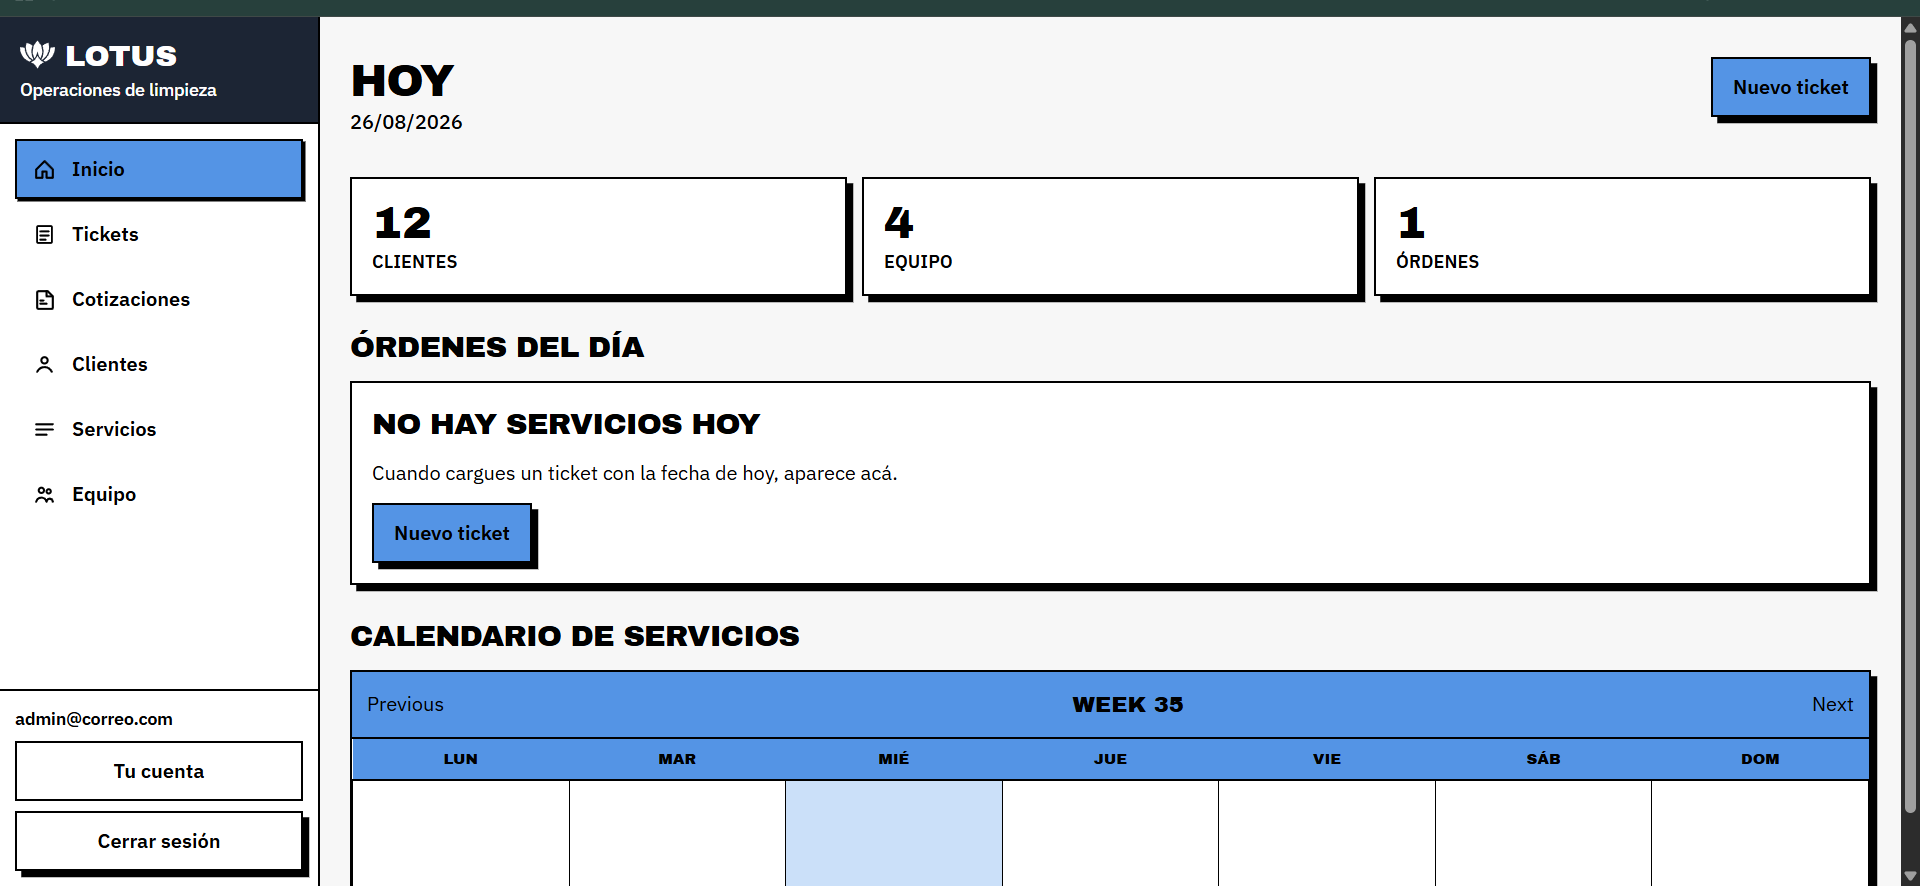
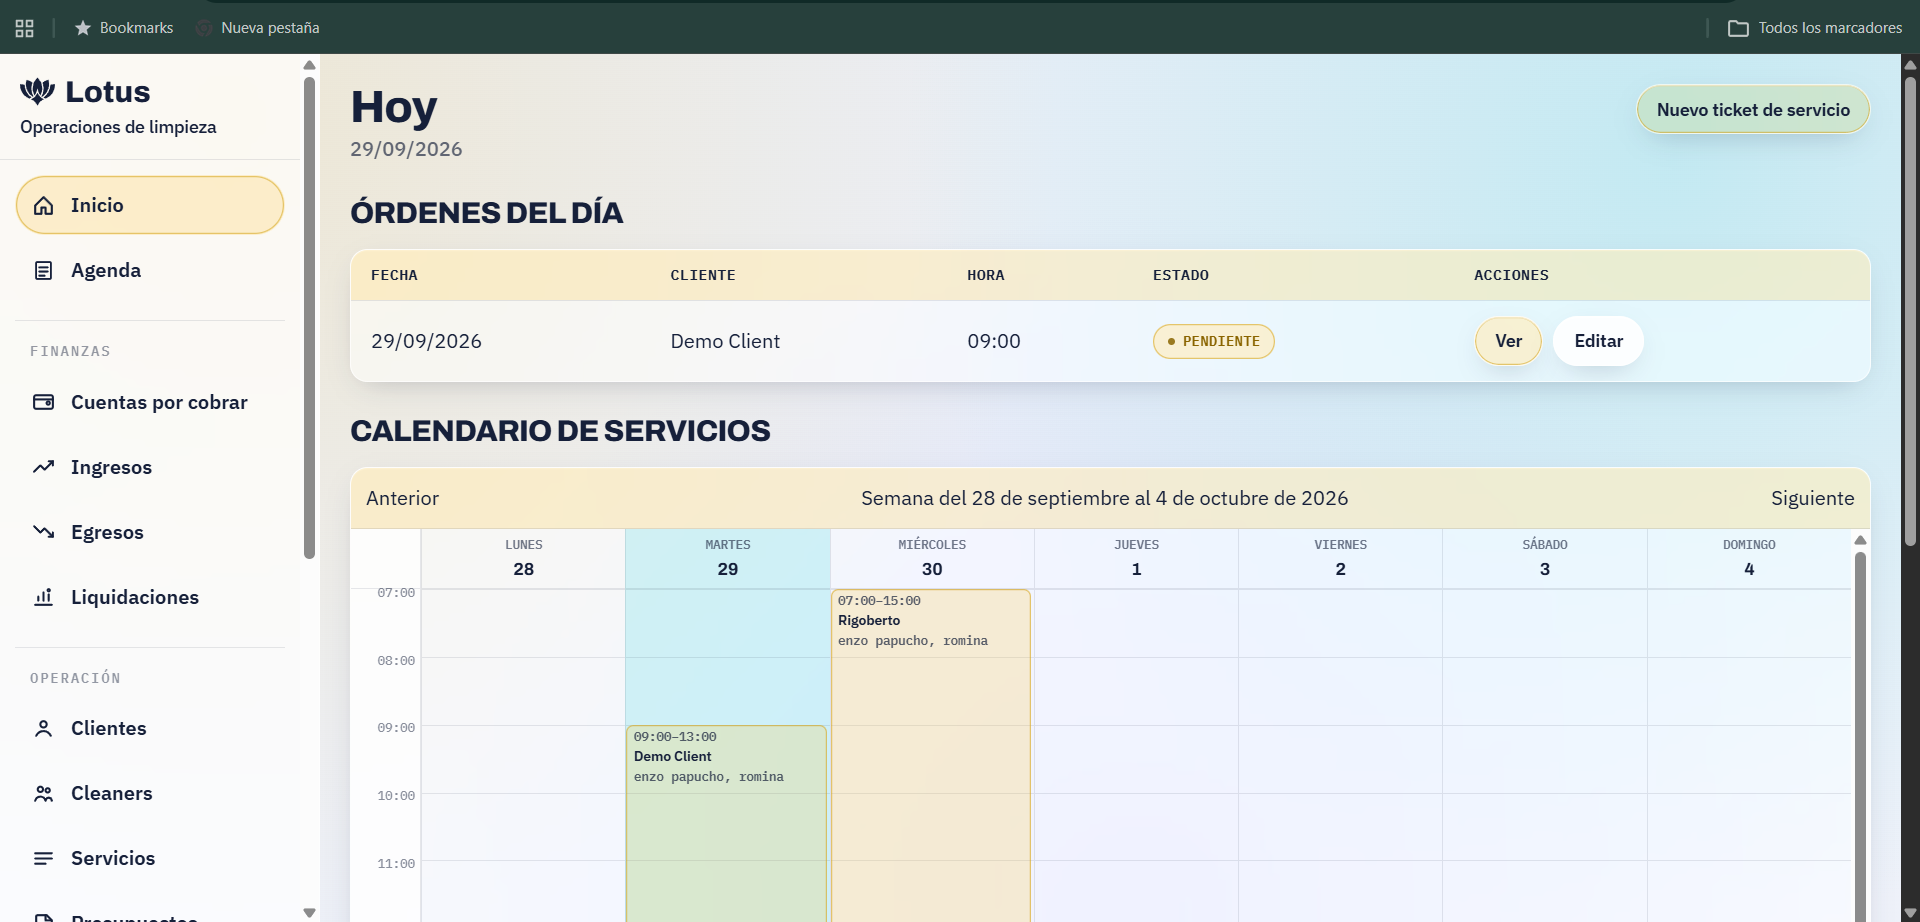
agrega nuevos componentes

diff --git a/src/data/projects.js b/src/data/projects.js
@@ -1,6 +1,6 @@
 export const projects = [
    {
-    title: 'Lotus clean (Mi proyecto mas grande hasta el momento :) )',
+    title: 'Lotus clean - Sistema de gestión para empresas de limpieza',
     description: 'Sistema de gestión para empresas de limpieza, desarrollado en Ruby on Rails. Centraliza clientes, direcciones, cuadrillas y servicios en un flujo de trabajo único: desde el alta de un ticket hasta su seguimiento en un calendario semanal interactivo. Incluye envío automático de confirmaciones por WhatsApp, mapas integrados para geolocalizar direcciones y una interfaz moderna construida con Tailwind CSS y Stimulus JS. Pensado para simplificar la operación diaria de negocios de servicios con múltiples clientes y equipos en movimiento..',
     image: '/assets/lotus.png',
     url: 'https://app.lotuscompany.ar/',
@@ -9,42 +9,42 @@ export const projects = [
   {
     title: 'TuReceta.app',
     description: '¿Necesitas calcular cuánto cuesta elaborar una receta para tu emprendimiento? TuRecetaApp te ayuda a obtener el costo total y el precio por unidad sin tener que hacer los cálculos manualmente. Solo debes ingresar los ingredientes, cantidades y precios paso a paso, y la aplicación se encarga del resto.',
-    image: '/assets/tuReceta.png',
+    image: '/assets/tureceta.png',
     url: 'https://turecetaapp.netlify.app/',
     repo:'https://github.com/Xgsusbrx',
   },
   {
     title: 'GifExpertApp',
     description: 'Aplicación web para buscar y explorar GIFs mediante la integración con una API externa. Permite realizar búsquedas y navegar por categorías dinámicas, mientras conserva los resultados consultados anteriormente para facilitar su acceso y mejorar la experiencia de usuario.',
-    image: '/assets/gifExpert.png',
+    image: '/assets/gif.png',
     url: 'https://gif-expert-tarea.netlify.app/',
     repo:'https://github.com/Xgsusbrx'
   },
   {
     title: 'Calculadora de Vuelto',
     description: 'Una calculadora pensada para los comercios venezolanos que necesitan calcular el vuelto combinando dólares y bolívares. La aplicación consulta automáticamente la tasa de cambio mediante una API y, a partir del precio y el billete recibido, indica rápidamente cuánto devolver',
-    image: '/assets/imagencalculadora.png',
+    image: '/assets/calculadora.png',
     url: 'https://calculadoradevuelto.netlify.app/',
     repo: 'https://github.com/Xgsusbrx'
   },
   {
     title:'Total Ventas del dia',
     description:'Aplicación web para la gestión de las ventas diarias de un negocio. Permite registrar y consolidar los ingresos del día, realizando automáticamente los cálculos y conversiones según la cotización actual del dólar, obtenida mediante una API externa. El objetivo es simplificar el control de las ventas y evitar cálculos manuales, ofreciendo resultados actualizados y precisos en un solo lugar.',
-    image:'/assets/imagen ventas del dia .png',
+    image:'/assets/ventas.png',
     url:'https://totalventasdeldia.netlify.app/' ,
     repo: 'https://github.com/Xgsusbrx/Ventas-del-dia-'
   },
-  {
-    title:'Invitacion de Boda',
-    description:'Página web de invitación digital, diseñada con un enfoque responsive e interactivo. Incluye un contador regresivo hasta la fecha del evento, acceso directo a la ubicación mediante Google Maps y un formulario para confirmar asistencia. El proyecto busca centralizar toda la información del evento en una experiencia simple, accesible y adaptada a dispositivos móviles.',
-    image:'/assets/invitacionde boda .png',
-    url:'https://samuelydaiana.netlify.app/',
-    repo:'https://github.com/Xgsusbrx/invitacion-Boda-'
-  },
+  // {
+  //   title:'Invitacion de Boda',
+  //   description:'Página web de invitación digital, diseñada con un enfoque responsive e interactivo. Incluye un contador regresivo hasta la fecha del evento, acceso directo a la ubicación mediante Google Maps y un formulario para confirmar asistencia. El proyecto busca centralizar toda la información del evento en una experiencia simple, accesible y adaptada a dispositivos móviles.',
+  //   image:'/assets/invitacionde boda .png',
+  //   url:'https://samuelydaiana.netlify.app/',
+  //   repo:'https://github.com/Xgsusbrx/invitacion-Boda-'
+  // },
   {
     title:'Invitacion de aniversario',
     description:'Tambien es una página web de invitación digital, diseñada con un enfoque responsive e interactivo con diseño un poco diferente. acceso directo a la ubicación mediante Google Maps y un formulario para confirmar asistencia. Invitacion adaptada a dispositivos móviles.',
-    image:'/assets/invitacionaniversario.png',
+    image:'/assets/invitacion.png',
     url:'https://yoliyariel.netlify.app/',
     repo:'https://github.com/Xgsusbrx/invitacion-Aniversario'
   }

diff --git a/src/components/Contact.jsx b/src/components/Contact.jsx
@@ -1,37 +1,58 @@
-
 import { FormContact } from "./FormContact";
+
 export const Contact = () => {
-
-
+  const phone = "5491172373115"; 
+  const message = encodeURIComponent(
+    "Hola Brian, vi tu portafolio y me gustaría hablar sobre un proyecto."
+  );
 
   return (
     <section id="contact" className="py-16 px-4 text-center">
       <h2 className="text-3xl font-bold mb-4">Contacto</h2>
-      <p className="mb-4">¿Quieres ver más de mis proyectos? </p>
+
+      <p className="mb-6">¿Quieres trabajar conmigo?</p>
+
+      <a
+        href={`https://wa.me/${phone}?text=${message}`}
+        target="_blank"
+        rel="noopener noreferrer"
+        aria-label="Escríbeme por WhatsApp"
+        className="inline-flex items-center gap-2 bg-[#25D366] text-white font-semibold px-6 py-3 rounded-full shadow hover:bg-[#1ebe5b] transition-colors"
+      >
+        <svg
+          viewBox="0 0 24 24"
+          fill="currentColor"
+          className="w-5 h-5"
+          aria-hidden="true"
+        >
+          <path d="M20.52 3.48A11.86 11.86 0 0 0 12.04 0C5.5 0 .2 5.3.2 11.84c0 2.09.55 4.13 1.59 5.93L0 24l6.4-1.68a11.8 11.8 0 0 0 5.64 1.44h.01c6.54 0 11.84-5.3 11.84-11.84 0-3.16-1.23-6.13-3.37-8.44ZM12.05 21.7h-.01a9.8 9.8 0 0 1-5-1.37l-.36-.21-3.8 1 1.01-3.7-.23-.38a9.8 9.8 0 0 1-1.5-5.2c0-5.42 4.41-9.83 9.84-9.83 2.63 0 5.09 1.02 6.95 2.88a9.77 9.77 0 0 1 2.88 6.95c0 5.42-4.41 9.86-9.78 9.86Zm5.39-7.36c-.3-.15-1.75-.86-2.02-.96-.27-.1-.47-.15-.67.15-.2.3-.77.96-.94 1.16-.17.2-.35.22-.65.07-.3-.15-1.25-.46-2.38-1.47-.88-.79-1.47-1.76-1.64-2.06-.17-.3-.02-.46.13-.61.14-.13.3-.35.45-.52.15-.17.2-.3.3-.5.1-.2.05-.37-.02-.52-.08-.15-.67-1.62-.92-2.22-.24-.58-.49-.5-.67-.51h-.57c-.2 0-.52.07-.8.37-.27.3-1.04 1.02-1.04 2.48s1.07 2.88 1.22 3.08c.15.2 2.1 3.2 5.08 4.49.71.31 1.26.49 1.69.63.71.23 1.36.2 1.87.12.57-.09 1.75-.72 2-1.41.25-.69.25-1.29.17-1.41-.07-.12-.27-.2-.57-.35Z" />
+        </svg>
+        Escríbeme por WhatsApp
+      </a>
+
+      <FormContact />
+
+      <p className="mb-4 mt-4">¿Quieres ver más de mis proyectos?</p>
       <div className="flex justify-center gap-6">
         <a
           href="https://github.com/Xgsusbrx"
           target="_blank"
-          className="text-[#ff5253] hover:text-black mb-4"
+          rel="noopener noreferrer"
+          className="text-[#ff5253] hover:text-black"
         >
           GitHub
         </a>
-      </div>
-      <a>¿Quieres trabajar conmigo?</a>
-      <div className="flex justify-center gap-6 mt-6">
-       
-      </div>
-
-      <FormContact/>
-      <div className="flex justify-center gap-6 mt-6"> <a
+        <a
           href="https://www.linkedin.com/in/brianluzardo/"
           target="_blank"
+          rel="noopener noreferrer"
           className="text-[#ff5253] hover:text-black"
         >
           LinkedIn
-        </a></div>
-
+        </a>
+      </div>
     </section>
   );
 };
+
 export default Contact;

diff --git a/src/components/Stack.jsx b/src/components/Stack.jsx
@@ -1,0 +1,39 @@
+const categories = [
+  { title: "Frontend", emoji: "🎨", items: ["React", "JavaScript", "HTML", "CSS"] },
+  { title: "Backend", emoji: "⚙", items: ["Python", "Django", "Ruby on Rails"] },
+  { title: "Herramientas", emoji: "🛠", items: ["Git", "GitHub", "Docker", "PostgreSQL"] },
+];
+
+export const Stack = () => {
+  return (
+    <section id="stack" className="py-20 px-4 max-w-5xl mx-auto text-center">
+      <h2 className="text-4xl font-bold mb-4">Mi stack de trabajo</h2>
+      <p className="text-lg text-gray-400 mb-12">
+        Las tecnologías con las que construyo mis proyectos
+      </p>
+
+      <div className="grid gap-6 md:grid-cols-3">
+        {categories.map(({ title, emoji, items }) => (
+          <div
+            key={title}
+            className="rounded-2xl border border-gray-700 bg-gray-800/50 p-6 transition hover:-translate-y-1 hover:border-gray-500"
+          >
+            <h3 className="text-2xl font-semibold mb-4">
+              <span aria-hidden="true">{emoji}</span> {title}
+            </h3>
+            <ul className="flex flex-wrap justify-center gap-2">
+              {items.map((item) => (
+                <li
+                  key={item}
+                  className="rounded-full bg-gray-700 px-3 py-1 text-sm text-gray-200"
+                >
+                  {item}
+                </li>
+              ))}
+            </ul>
+          </div>
+        ))}
+      </div>
+    </section>
+  );
+};

diff --git a/src/components/Services.jsx b/src/components/Services.jsx
@@ -1,0 +1,41 @@
+const services = [
+  {
+    title: "🌐 Desarrollo web",
+    description:
+      "Landing pages, sitios web y aplicaciones adaptadas a las necesidades del proyecto.",
+  },
+  {
+    title: "🛠 Mantenimiento y correcciones",
+    description:
+      "Solución de errores, problemas responsive y mejoras de funcionalidades existentes.",
+  },
+  {
+    title: "🔌 APIs e integraciones",
+    description:
+      "Integración de APIs, formularios, servicios externos y automatizaciones.",
+  },
+  {
+    title: "⚙ Backend",
+    description:
+      "Desarrollo de APIs y funcionalidades con Python/Django o Ruby on Rails.",
+  },
+];
+
+export const Services = () => {
+  return (
+    <section id="services" className="py-20 px-4 max-w-3xl mx-auto text-center">
+      <h2 className="text-4xl font-bold mb-14">¿En qué puedo ayudarte?</h2>
+
+      <div className="space-y-12">
+        {services.map(({ title, description }) => (
+          <div key={title}>
+            <h3 className="text-2xl font-semibold mb-3">{title}</h3>
+            <p className="text-lg leading-relaxed text-gray-300 max-w-xl mx-auto">
+              {description}
+            </p>
+          </div>
+        ))}
+      </div>
+    </section>
+  );
+};

diff --git a/src/components/Practice.jsx b/src/components/Practice.jsx
@@ -1,0 +1,24 @@
+export const Practice = () => {
+  return (
+    <section id="practice" className="py-20 px-4 max-w-4xl mx-auto">
+      <div className="rounded-3xl border border-gray-700 bg-gray-800/50 px-6 py-14 text-center md:px-12">
+        <h2 className="text-4xl font-bold mb-6">
+          ¿Tienes un proyecto en mente? 💡
+        </h2>
+
+        <p className="mx-auto max-w-xl text-lg text-gray-300 leading-relaxed">
+          Ya sea crear una página web, mejorar una aplicación existente o
+          resolver un problema técnico, cuéntame qué necesitas y buscamos
+          juntos la mejor forma de llevarlo a cabo.
+        </p>
+
+        <a
+          href="#contact"
+          className="inline-block mt-10 rounded-full bg-[#ff5253] px-8 py-3 font-semibold text-white shadow-lg shadow-[#ff5253]/20 transition hover:bg-[#e04445] hover:-translate-y-0.5 focus-visible:outline-none focus-visible:ring-2 focus-visible:ring-[#ff5253] focus-visible:ring-offset-2 focus-visible:ring-offset-gray-900"
+        >
+          Hablemos de tu proyecto ✨
+        </a>
+      </div>
+    </section>
+  );
+};

diff --git a/src/components/About.jsx b/src/components/About.jsx
@@ -1,14 +1,16 @@
 export const About = () => {
-    
   return (
     <section id="about" className="py-16 px-4 max-w-3xl mx-auto text-center">
       <h2 className="text-3xl font-bold mb-4">Sobre mí</h2>
       <p>
-       Desarrollador web enfocado en backend y soluciones full stack. Trabajo con Python, Django, Ruby on Rails y React, creando aplicaciones funcionales que transforman ideas en soluciones reales.
-
+        Desarrollador web enfocado en backend y soluciones full stack. Trabajo
+        con Python, Django, Ruby on Rails, JavaScript y React para desarrollar
+        aplicaciones web, APIs y herramientas que resuelven necesidades
+        concretas. Me interesa especialmente transformar una idea o problema en
+        una solución funcional, sencilla de utilizar y fácil de mantener.
       </p>
     </section>
   );
-}
+};
 
-export default About
+export default About;

diff --git a/src/Portafolio.jsx b/src/Portafolio.jsx
@@ -3,6 +3,10 @@ import About from './components/About';
 import Projects from './components/Projects';
 import Contact from './components/Contact';
 import Footer from './components/Footer';
+import {Services}  from './components/Services';
+import { Practice } from './components/Practice';
+import { Stack } from './components/Stack';
+
 
 
 
@@ -14,9 +18,13 @@ export const Portafolio= () => {
   <main className='font-sans min-h-screen bg-[#23253a] text-[#d6d4e5]'> 
     <Header />
       <About />
+      <Services/>
       <Projects />
+      <Practice/>
+      <Stack/>
       <Contact />
       <Footer />
+      
     </main>   
     </>
   )

diff --git a/src/components/Header.jsx b/src/components/Header.jsx
@@ -7,8 +7,10 @@ export const Header = () => {
       />
       
       <h1 className="text-4xl md:text-6xl font-bold">Hola, soy Brian</h1>
-      <p className="mt-4 text-xl text-[#d6d4e5]">
-        Desarrollador Fullstack
+      <h2 className="text-2xl md:text-2xl font-bold mt-4">Desarrollador Web Full Stack</h2>
+      <p className="mt-4 text-xl text-[#d6d4e5]">   
+
+Desarrollo sitios web, aplicaciones y soluciones a medida para negocios y proyectos digitales.
       </p>
       <a
         href="#projects"
